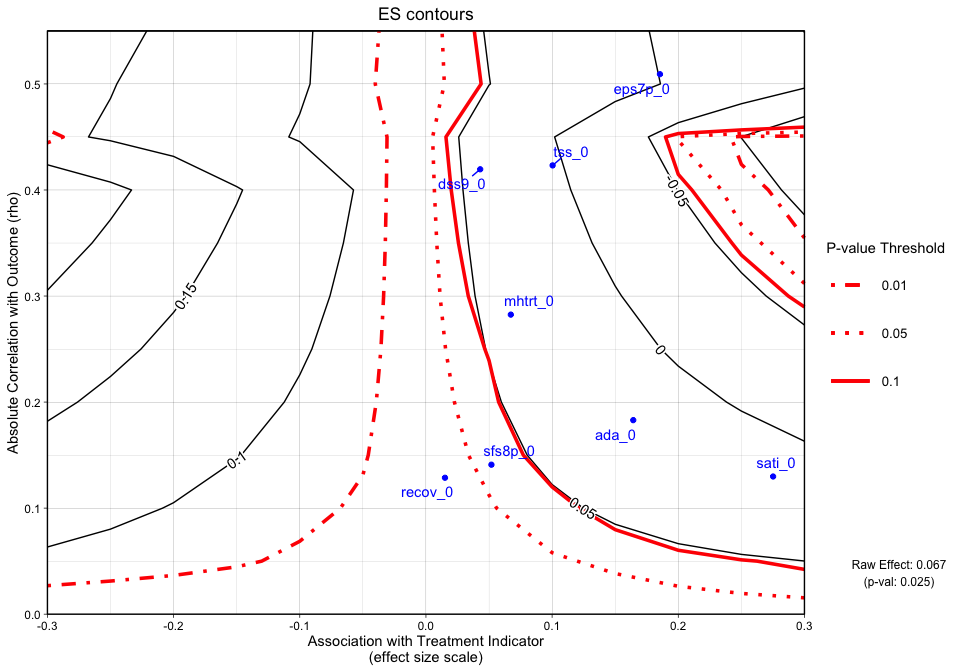
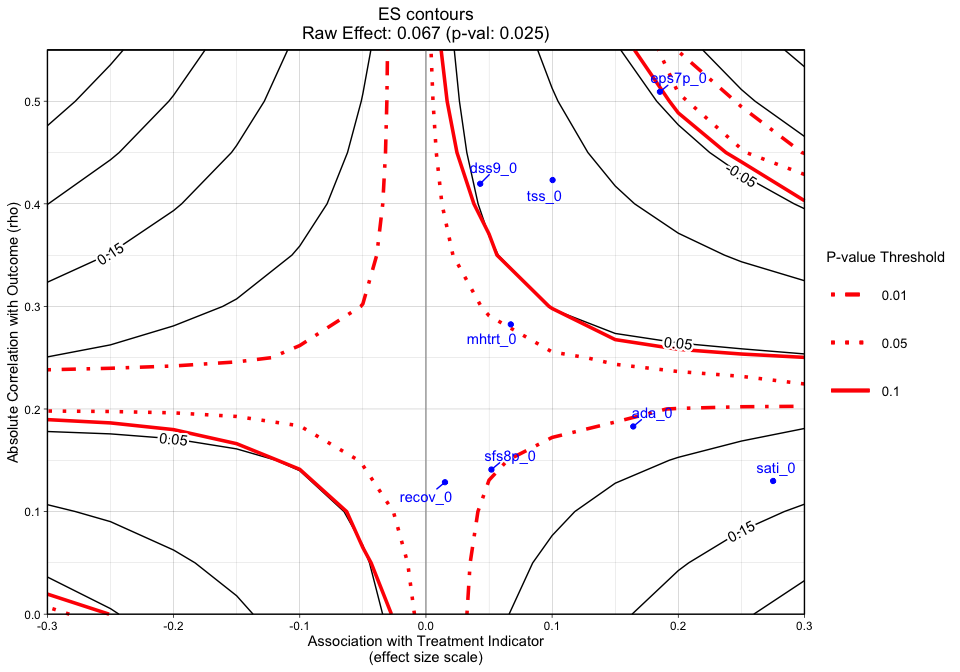
Update README/vignette

diff --git a/README.md b/README.md
@@ -5,7 +5,7 @@
 # Introduction
 
 *Note: This is a work in progress.. This document was lasted updated
-2020-09-21 13:06:08*
+2020-12-01 22:44:08*
 
 The <ins>O</ins>mitted <ins>V</ins>ariable <ins>T</ins>ool (`OVtool`)
 package was designed to assess the sensitivity of research findings to
@@ -32,7 +32,7 @@ from a large scale observational study on youth in substance use
 treatment. More specifically, it contains a subset of measures from the
 Global Appraisal of Individual Needs biopsychosocial assessment
 instrument (GAIN) (Dennis, Titus et al. 2003) from sites that
-adminstered two different types of substance use disorder treatments
+administered two different types of substance use disorder treatments
 (treatment “A” and treatment “B”). The Center for Substance Abuse
 Treatment (CSAT) funded the sites that administered these two SUD
 treatments. This dataset consists of 4,000 adolescents. The main goal of
@@ -74,7 +74,7 @@ you restart your R session after running:*
 
 ``` r
 # install.packages("devtools")
-devtools::install_github("jpane24/OVtool") 
+devtools::install_github("jpane24/OVtool", ref='master') 
 # we recommend restarting your R session after running the previous line of code
 # for the first time on your machine.
 library(OVtool)
@@ -138,6 +138,24 @@ my_formula = as.formula(treat ~ eps7p_0 + sfs8p_0 + sati_0 + ada_0 + recov_0 +
 ## Get weights
 sud = data.frame(sud)
 library(twang)
+```
+
+    #> Loading required package: survey
+
+    #> Loading required package: grid
+
+    #> Loading required package: Matrix
+
+    #> Loading required package: survival
+
+    #> 
+    #> Attaching package: 'survey'
+
+    #> The following object is masked from 'package:graphics':
+    #> 
+    #>     dotchart
+
+``` r
 ps.twang <- ps(my_formula, data = sud, estimand = 'ATE', booster = "gbm",
                stop.method = "ks.max", verbose=F, ks.exact = T)
 
@@ -223,7 +241,7 @@ summary(results$mod_results)
     #> 
     #> Coefficients:
     #>               Estimate Std. Error t value Pr(>|t|)    
-    #> (Intercept) -0.7079871  0.0649876 -10.894  < 2e-16 ***
+    #> (Intercept)  0.3562719  0.0649876   5.482 4.46e-08 ***
     #> treat        0.0785796  0.0275254   2.855  0.00433 ** 
     #> eps7p_0      1.6332282  0.1180704  13.833  < 2e-16 ***
     #> sfs8p_0      0.0023047  0.0020310   1.135  0.25654    
@@ -253,10 +271,10 @@ sort of logical next step questions. The next snippet of code presents
 the main function in `OVtool`: `ov_sim()`. This function requires
 results from `outcome_model()` plus additional parameters including:
 
-  - `weight_covariates`: a vector of column names representing the
-    covariates used to produce the analysts propensity score weights
-    (these may or may not be the same as the list of covariates used for
-    the outcome model)
+  - `plot_covariates`: a vector of column names potentially representing
+    the covariates used to produce the analysts’ propensity score
+    weights (these may or may not be the same as the list of covariates
+    used for the outcome model)
 
   - `es_grid`: a vector on an effect size scale representing the
     association between the unobserved confounders (omitted variables)
@@ -289,22 +307,22 @@ used by `OVtool`.
 ``` r
 # Run OVtool (with weights (not a ps object))
 ovtool_results_twang = ov_sim(model_results=results, 
-                              weight_covariates=c("eps7p_0", "sfs8p_0",
-                                                  "sati_0", "ada_0",
-                                                  "recov_0", "tss_0", 
-                                                  "mhtrt_0", "dss9_0"),
+                              plot_covariates=c("eps7p_0", "sfs8p_0",
+                                                "sati_0", "ada_0",
+                                                "recov_0", "tss_0", 
+                                                "mhtrt_0", "dss9_0"),
                               es_grid = NULL,
                               rho_grid = seq(0, 0.40, by = 0.05), 
                               n_reps = 50,
                               progress = TRUE)
 ```
 
-    #> Warning in ov_sim(model_results = results, weight_covariates = c("eps7p_0", :
+    #> Warning in ov_sim(model_results = results, plot_covariates = c("eps7p_0", :
     #> You specified a rho grid whose maximum value is less than the maximum absolute
     #> correlation at least one observed covariate has with the outcome. The rho grid
-    #> was automatically expanded to include all weight_covariates specified in the
+    #> was automatically expanded to include all plot_covariates specified in the
     #> relevant graphics. If you want the rho grid range to remain from 0 to 0.4 then
-    #> you must exclude the following variables from the weight_covariates argument:
+    #> you must exclude the following variables from the plot_covariates argument:
     #> eps7p_0, tss_0, dss9_0.
 
     #> [1] "6% Done!"
@@ -328,11 +346,11 @@ ovtool_results_twang = ov_sim(model_results=results,
 In our example, `ov_sim` produced a warning saying “You specified a rho
 grid whose maximum value is less than the maximum absolute correlation
 at least one observed covariate has with the outcome. The rho grid was
-automatically expanded to include all weight\_covariates specified in
-the relevant graphics. If you want the rho grid range to remain from 0
-to 0.4 then you must exclude the following variables from the
-weight\_covariates argument: eps7p\_0, tss\_0, dss9\_0.” The grid was
-expanded to ensure all `weight_covariates` could be seen on the contour
+automatically expanded to include all plot\_covariates specified in the
+relevant graphics. If you want the rho grid range to remain from 0 to
+0.4 then you must exclude the following variables from the
+plot\_covariates argument: eps7p\_0, tss\_0, dss9\_0.” The grid was
+expanded to ensure all `plot_covariates` could be seen on the contour
 plot. If the user does not want the grid expanded, they can leave out
 the observed covariates used in the propensity score model that have an
 absolute correlation with the outcome that is greater than the maximum
@@ -367,11 +385,11 @@ graphics. The first graphic (Figure 1) plots the treatment effect
 contours without covariate labels. If the user specifies the parameter
 `col` as `"color"`, the contours will overlay a colored heat map. The
 second graphic (Figure 2) plots the p-value contours with the column
-names submitted to `weight_covariates` plotted by their raw rho and
-effect size. The third graphic (Figure 3) plots the treatment effect
-contours with the p-value contour overlayed and covariate labels. The
-`col` options for Figures 2 and 3 are `"bw"` and `"color"` which produce
-a black and white and colored contour graphic, respectively.
+names submitted to `plot_covariates` plotted by their raw rho and effect
+size. The third graphic (Figure 3) plots the treatment effect contours
+with the p-value contour overlaid and covariate labels. The `col`
+options for Figures 2 and 3 are `"bw"` and `"color"` which produce a
+black and white and colored contour graphic, respectively.
 
 ``` r
 plot.ov(ovtool_results_twang, print_graphic = "1", col = "bw")
@@ -401,7 +419,8 @@ Figure 2 is a different variation of Figure 1, but now adds p-value
 contours. This graphic will allow the user to see what treatment effect
 on the effect size scale will switch the significance level at critical
 p-values (i.e. 0.05). This graphic will now give the user an idea of how
-sensitive the effect is. 
+sensitive the effect is. The analyst can specify what red p-value
+thresholds they want plotted. 
 
 ``` r
 plot.ov(ovtool_results_twang, print_graphic = "3", col = "color")
@@ -475,15 +494,17 @@ summary.ov(object = ovtool_results_twang, model_results = results)
     #> [1] "100% Done!"
     #> [1] "Recommendation for reporting the sensitivity analyses"
     #> [1] "The sign of the estimated effect is expected to remain consistent when simulated unobserved
-    confounders have the same strength of association with the treatment indicator and outcome that are
-    seen in the observed confounders. In the most extreme observed case, the estimated effect size is
-    reduced by 82 percent."
+    confounders have the same strength of associations with the treatment indicator and outcome that
+    are seen in 7 of the 8 observed confounders. In the most extreme observed case, eps7p_0, the
+    estimated effect size is 126 percent of the original, but in the opposite direction. The sign of
+    the estimate would not be expected to be preserved for unobserved confounders that have the same
+    strength of association with the treatment indicator and outcome as eps7p_0."
     #> [1] "Statistical significance at the 0.05 level is expected to be robust to unobserved
     confounders with strengths of associations with the treatment indicator and outcome that are seen
-    in 5 of the 8 observed confounders. In the most extreme observed case, the p-value would be
-    expected to increase from 0.004 to 0.619. Significance at the 0.05 level would not be expected to
+    in 4 of the 8 observed confounders. In the most extreme observed case, the p-value would be
+    expected to increase from 0.004 to 0.473. Significance at the 0.05 level would not be expected to
     be preserved for unobserved confounders that have the same strength of association with the
-    treatment indicator and outcome as eps7p_0, sati_0, tss_0."
+    treatment indicator and outcome as eps7p_0, sati_0, ada_0, tss_0."
 
 The `OVtool` gives a recommendation on how to report findings regarding
 the direction of the treatment effect and statistical significance. An
@@ -574,7 +595,7 @@ summary(results_att$mod_results)
     #> 
     #> Coefficients:
     #>               Estimate Std. Error t value Pr(>|t|)    
-    #> (Intercept) -0.7196504  0.0666856 -10.792  < 2e-16 ***
+    #> (Intercept)  0.3446086  0.0666856   5.168 2.49e-07 ***
     #> treat        0.0669815  0.0298823   2.242   0.0250 *  
     #> eps7p_0      1.6224090  0.1216548  13.336  < 2e-16 ***
     #> sfs8p_0      0.0028975  0.0021227   1.365   0.1723    
@@ -603,23 +624,23 @@ the analysis.
 
 ``` r
 ovtool_results_twang_att = ov_sim(model_results=results_att, 
-                                  weight_covariates=c("eps7p_0", "sfs8p_0",
-                                                      "sati_0", "ada_0",
-                                                      "recov_0", "tss_0", 
-                                                      "mhtrt_0", "dss9_0"),
+                                  plot_covariates=c("eps7p_0", "sfs8p_0",
+                                                    "sati_0", "ada_0",
+                                                    "recov_0", "tss_0", 
+                                                    "mhtrt_0", "dss9_0"),
                                   es_grid = NULL,
                                   rho_grid = seq(0, 0.40, by = 0.05), 
                                   n_reps = 50,
                                   progress = TRUE)
 ```
 
-    #> Warning in ov_sim(model_results = results_att, weight_covariates =
-    #> c("eps7p_0", : You specified a rho grid whose maximum value is less than
-    #> the maximum absolute correlation at least one observed covariate has
-    #> with the outcome. The rho grid was automatically expanded to include all
-    #> weight_covariates specified in the relevant graphics. If you want the rho grid
-    #> range to remain from 0 to 0.4 then you must exclude the following variables from
-    #> the weight_covariates argument: eps7p_0, tss_0, dss9_0.
+    #> Warning in ov_sim(model_results = results_att, plot_covariates = c("eps7p_0", :
+    #> You specified a rho grid whose maximum value is less than the maximum absolute
+    #> correlation at least one observed covariate has with the outcome. The rho grid
+    #> was automatically expanded to include all plot_covariates specified in the
+    #> relevant graphics. If you want the rho grid range to remain from 0 to 0.4 then
+    #> you must exclude the following variables from the plot_covariates argument:
+    #> eps7p_0, tss_0, dss9_0.
 
     #> [1] "8% Done!"
     #> [1] "15% Done!"
@@ -711,8 +732,8 @@ summary.ov(object = ovtool_results_twang_att, model_results = results_att)
     #> [1] "88% Done!"
     #> [1] "100% Done!"
     #> [1] "Recommendation for reporting the sensitivity analyses"
-    #> [1] "The sign of the estimated effect is expected to remain consistent when simulated unobserved confounders have the same strength of association with the treatment indicator and outcome that are seen in the observed confounders. In the most extreme observed case, the estimated effect size is reduced by 96 percent."
-    #> [1] "Statistical significance at the 0.05 level is expected to be robust to unobserved confounders with strengths of associations with the treatment indicator and outcome that are seen in 1 of the 8 observed confounders. In the most extreme observed case, the p-value would be expected to increase from 0.025 to 0.953. Significance at the 0.05 level would not be expected to be preserved for unobserved confounders that have the same strength of association with the treatment indicator and outcome as eps7p_0, sfs8p_0, sati_0, ada_0, tss_0, mhtrt_0, dss9_0."
+    #> [1] "The sign of the estimated effect is expected to remain consistent when simulated unobserved confounders have the same strength of associations with the treatment indicator and outcome that are seen in 7 of the 8 observed confounders. In the most extreme observed case, eps7p_0, the estimated effect size is 184 percent of the original, but in the opposite direction. The sign of the estimate would not be expected to be preserved for unobserved confounders that have the same strength of association with the treatment indicator and outcome as eps7p_0."
+    #> [1] "Statistical significance at the 0.05 level is expected to be robust to unobserved confounders with strengths of associations with the treatment indicator and outcome that are seen in 4 of the 8 observed confounders. In the most extreme observed case, the p-value would be expected to increase from 0.025 to 0.495. Significance at the 0.05 level would not be expected to be preserved for unobserved confounders that have the same strength of association with the treatment indicator and outcome as eps7p_0, tss_0, mhtrt_0, dss9_0."
 
 # Conclusion
 
@@ -727,7 +748,7 @@ effects using ps methods.
 
 # Acknowledgements
 
-The devlopment of this tutorial was supported by funding from grant
+The development of this tutorial was supported by funding from grant
 R01DA045049 (PIs: Griffin/McCaffrey) from the National Institute on Drug
 Abuse. It was also supported by the Center for Substance Abuse Treatment
 (CSAT), Substance Abuse and Mental Health Services Administration
